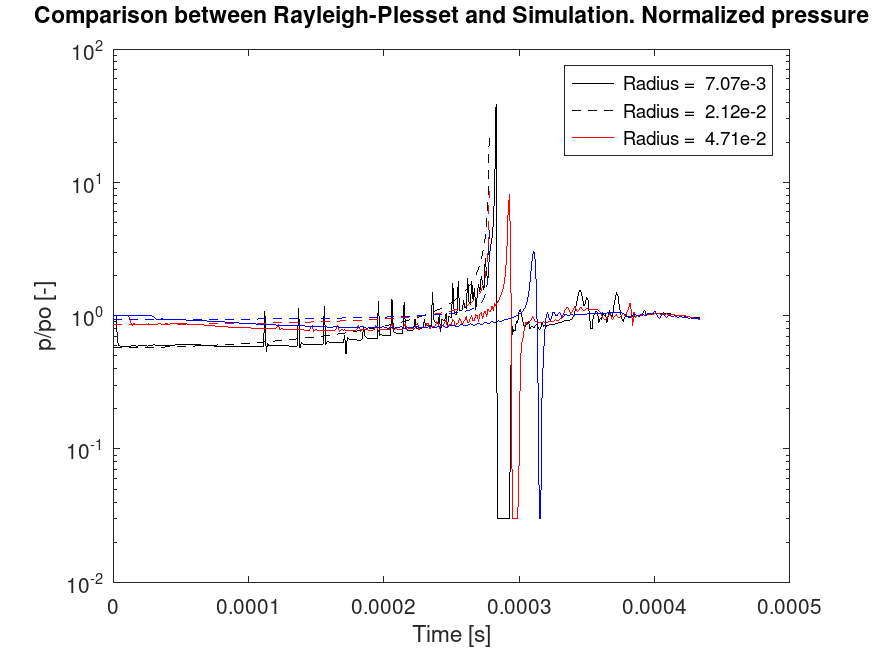
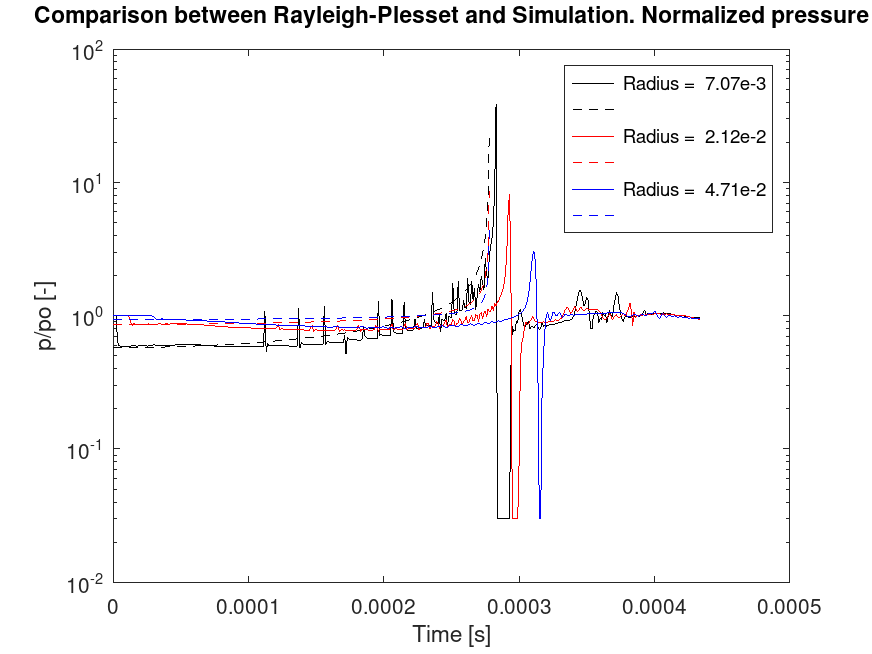
Fix the RP plot.

Changed region(s): [[0.7122, 0.1529, 0.8979, 0.2446], [0.7122, 0.2752, 0.8979, 0.3058]]

diff --git a/postProcessing/probeEvaluation.m b/postProcessing/probeEvaluation.m
@@ -115,7 +115,7 @@ plot(p_center(:,1),p_center(:,4)/ambientPressure,'b')
 plot(p_center(:,1),p_stimated_sliced(:,3),'b--')
 
 title('Comparison between Rayleigh-Plesset and Simulation. Normalized pressure')
-legend('Radius =  7.07e-3','Radius =  2.12e-2','Radius =  4.71e-2' )
+legend('Radius =  7.07e-3', "" ,'Radius =  2.12e-2', "",'Radius =  4.71e-2', "")
 xlabel('Time [s]')
 ylabel('p/po [-]')
 
